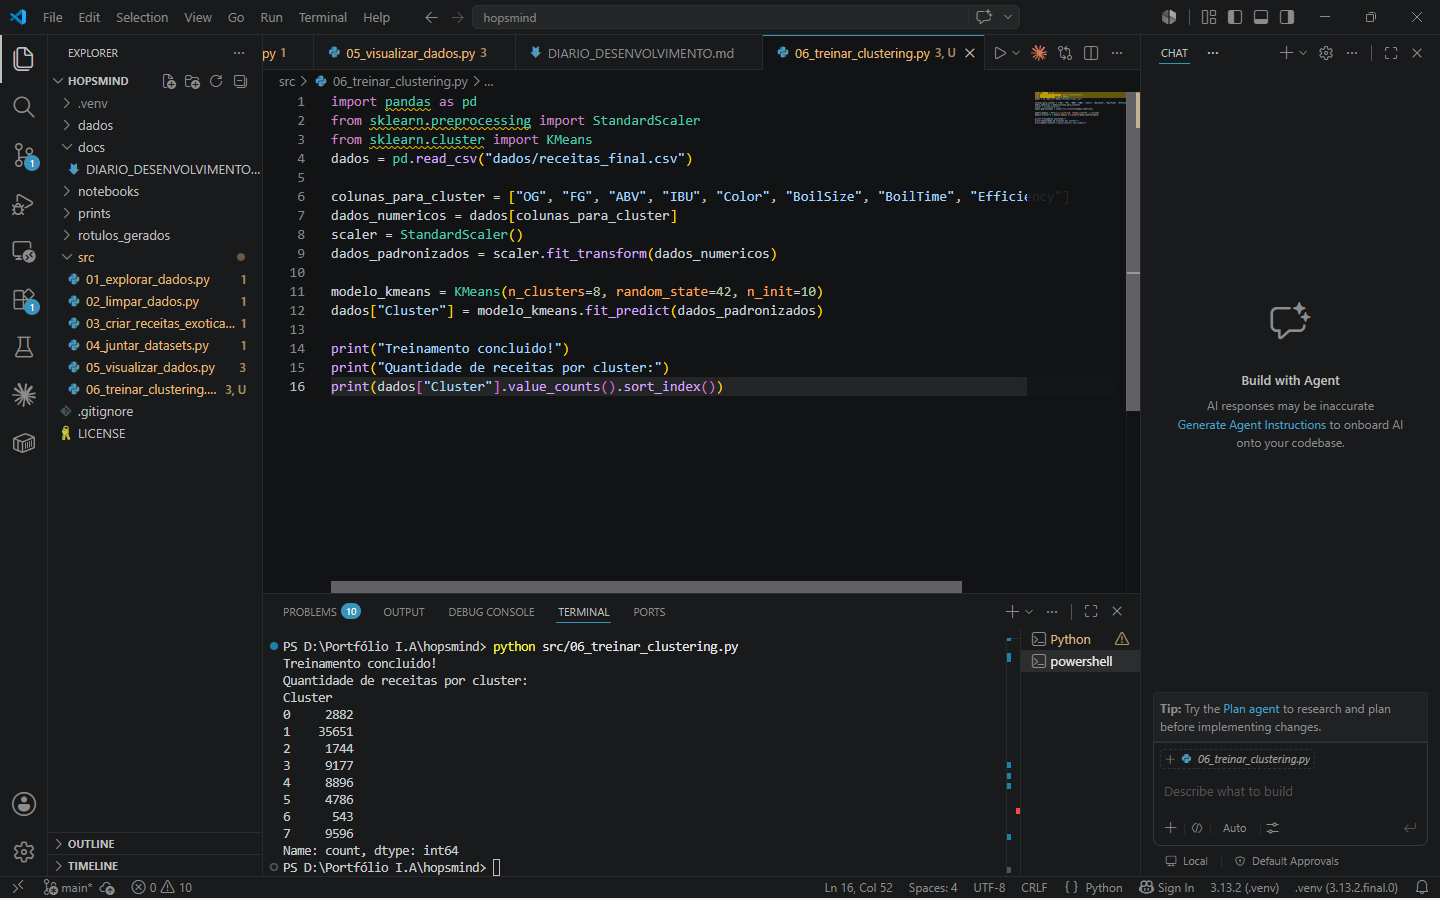
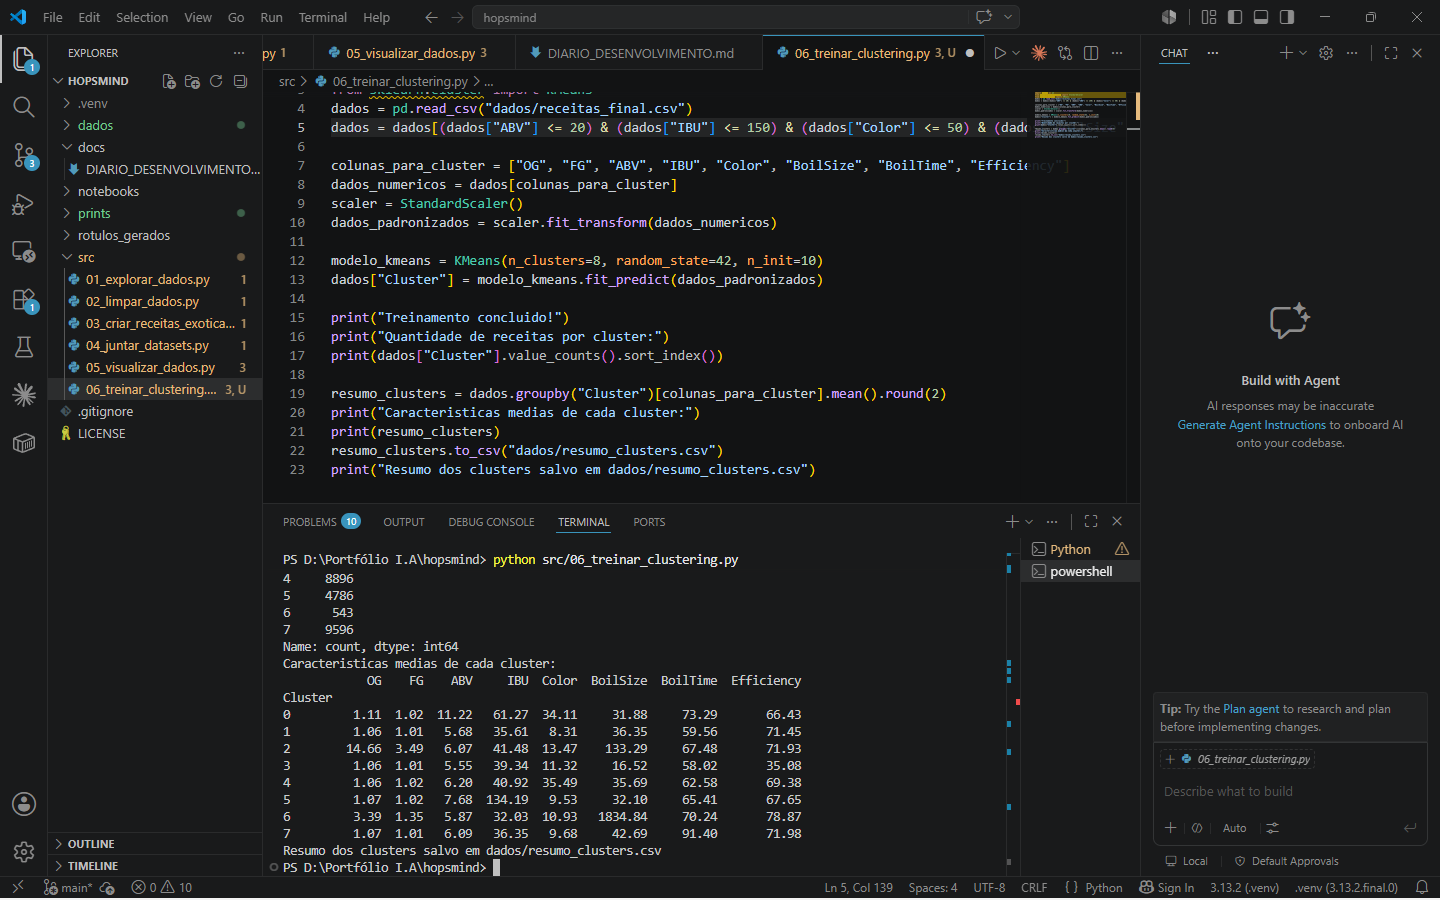
Cria funcao geradora de receitas baseada nos clusters aprendidos

diff --git a/src/src/07_gerar_receita.py b/src/src/07_gerar_receita.py
@@ -1,0 +1,23 @@
+import pandas as pd
+import numpy as np
+
+dados = pd.read_csv("dados/receitas_final.csv")
+resumo_clusters = pd.read_csv("dados/resumo_clusters.csv", index_col="Cluster")
+
+def gerar_receita_nova(cluster_escolhido, nome_receita):
+    perfil = resumo_clusters.loc[cluster_escolhido]
+    
+    nova_receita = {
+        "Name": nome_receita,
+        "OG": round(np.random.normal(perfil["OG"], 0.005), 3),
+        "FG": round(np.random.normal(perfil["FG"], 0.003), 3),
+        "ABV": round(np.random.normal(perfil["ABV"], 0.5), 1),
+        "IBU": round(np.random.normal(perfil["IBU"], 5), 1),
+        "Color": round(np.random.normal(perfil["Color"], 2), 1),
+        "BoilSize": round(np.random.normal(perfil["BoilSize"], 2), 1),
+        "BoilTime": int(perfil["BoilTime"]),
+        "Efficiency": round(perfil["Efficiency"], 1),
+    }
+    return nova_receita
+receita_teste = gerar_receita_nova(cluster_escolhido=1, nome_receita="Cerveja Gerada por IA - Teste 1")
+print(receita_teste)